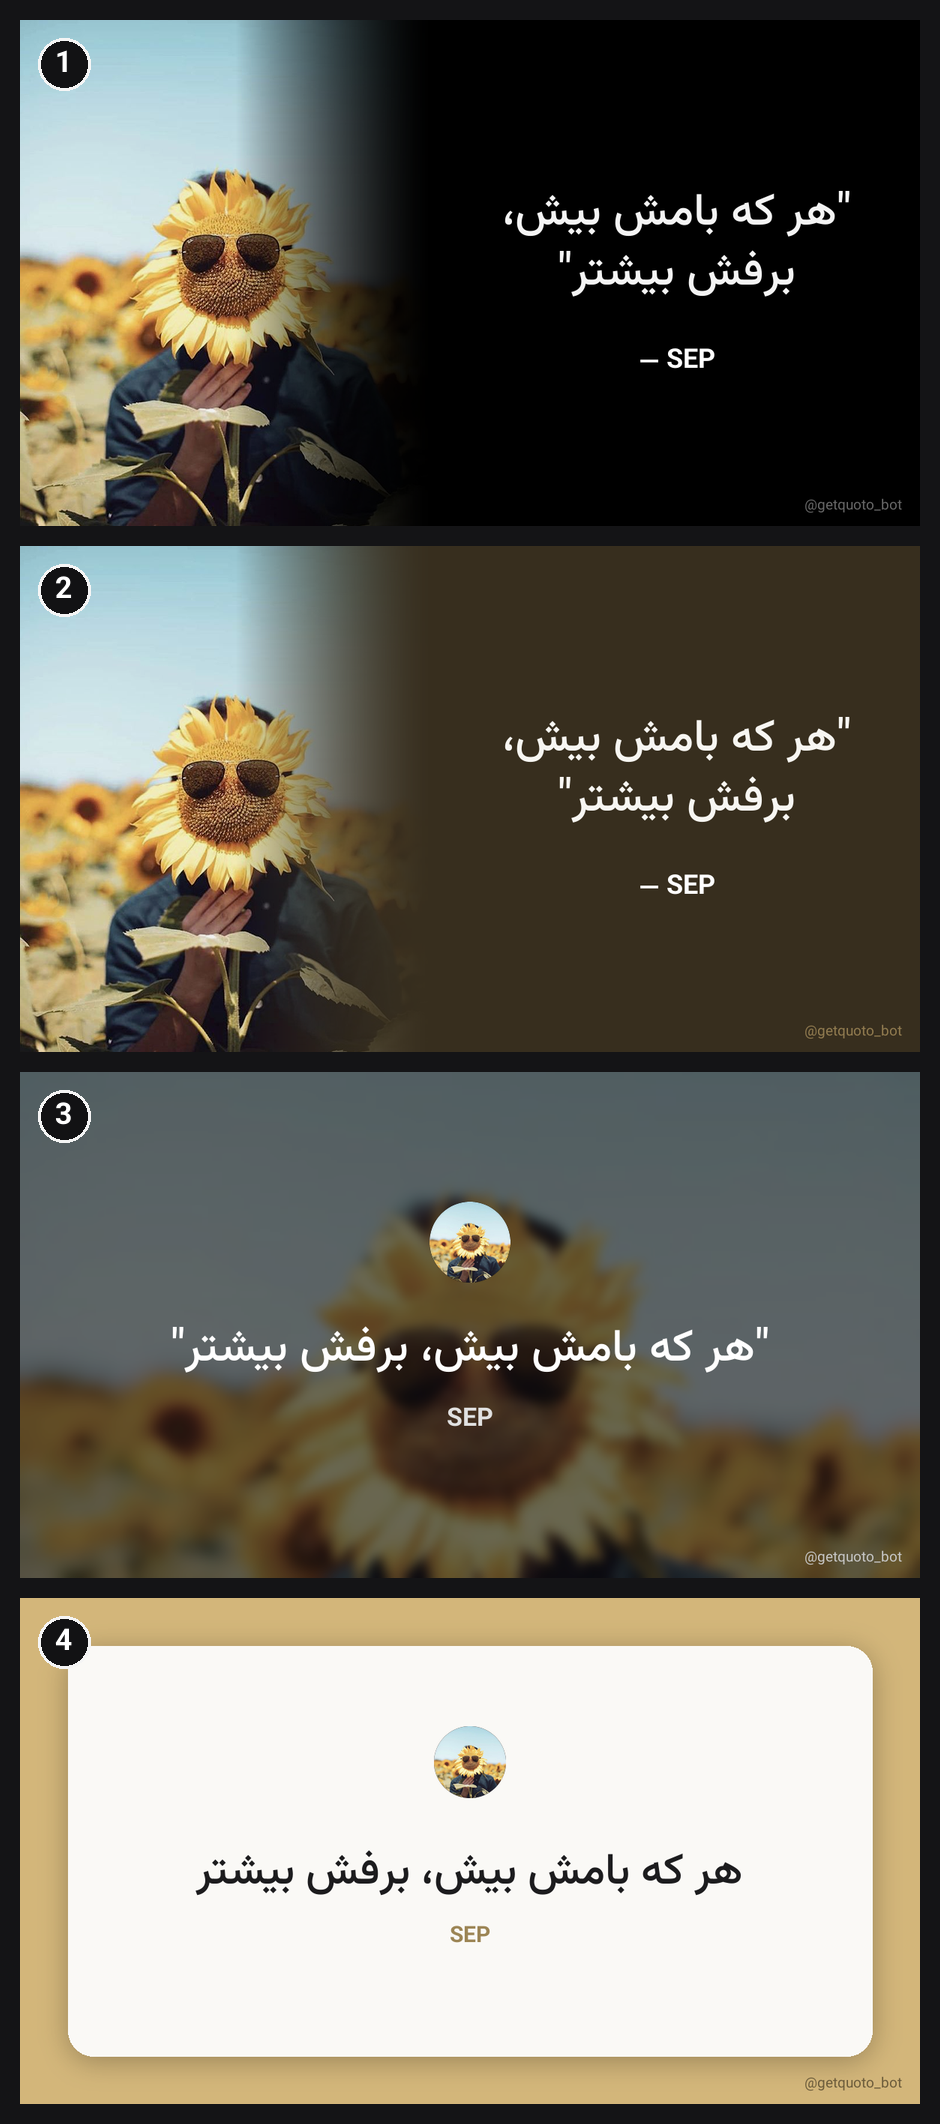
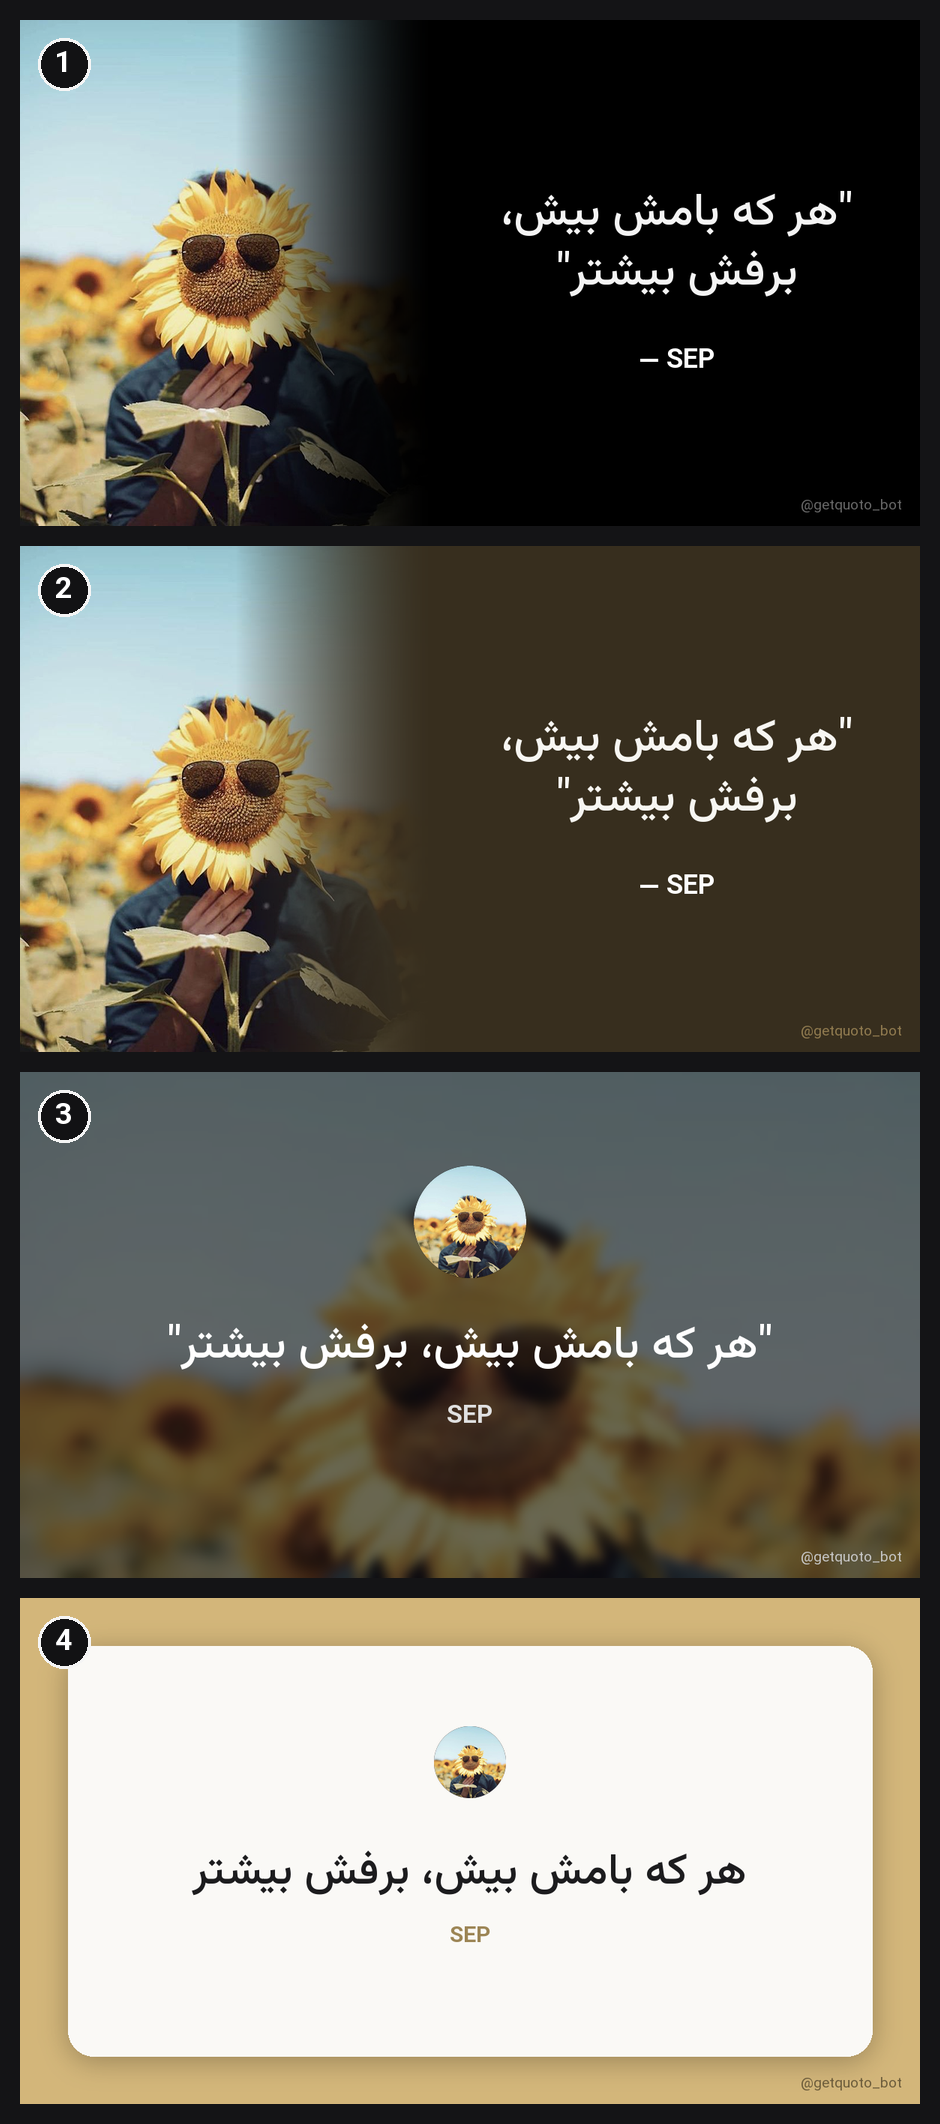
Give the full-frame template a bigger portrait, sitting higher
The round portrait goes from 108 to 150, and the portrait and the words
move up 55 together.

Moving them together is the point: the gap between them stays the same
whatever the quote does, and a long quote can no longer grow into the
picture, because the whole block slides down instead of the words climbing.
At the longest quote the template will take, the portrait still has 25px
above it.

diff --git a/render.py b/render.py
@@ -270,15 +270,21 @@ def _portrait(avatar, quote, name, watermark, rtl) -> Scene:
         f"{open_q}{quote}{close_q}", rtl, int(WIDTH * 0.78), int(HEIGHT * 0.44),
         range(60, 29, -2))
 
+    # The portrait and the words are one group, centred together and then lifted
+    # off the middle line. Lifting the group rather than the portrait alone is
+    # what keeps the gap between them the same however long the quote runs, and
+    # it is why a long quote can never grow into the picture: the whole block
+    # moves down instead.
     block = len(lines) * line_height
-    top = (HEIGHT - block) // 2 + 26
-    face_size = 108
+    face_size, gap, rise = 150, 44, 55
+    head = face_size + gap
+    top = (HEIGHT - (head + block + 40)) // 2 + head - rise
 
     canvas = _cover(avatar.convert("RGB"), (WIDTH, HEIGHT))
     canvas = canvas.filter(ImageFilter.GaussianBlur(7))
     canvas = ImageEnhance.Brightness(canvas).enhance(0.42)
     face = _circle(avatar, face_size)
-    canvas.paste(face, ((WIDTH - face_size) // 2, top - 150), face)
+    canvas.paste(face, ((WIDTH - face_size) // 2, top - head), face)
 
     return Scene(
         background=canvas,

diff --git a/selftest.py b/selftest.py
@@ -240,9 +240,9 @@ def test_templates() -> None:
             # quote, so a long one is where a layout runs off the card.
             check(f"{name} keeps the {label} name on the card",
                   0 < scene.name_y < render.HEIGHT - 40, str(scene.name_y))
-            # Two of them hang a round portrait 150px above the words; that is
-            # the part a long quote pushes off the top edge.
-            head = 150 if name in ("portrait", "card") else 0
+            # Two of them hang a round portrait above the words; that headroom
+            # is the part a long quote pushes off the top edge.
+            head = {"portrait": 194, "card": 150}.get(name, 0)
             check(f"{name} keeps the {label} quote on the card",
                   scene.quote_top - head >= 0, str(scene.quote_top))
 
